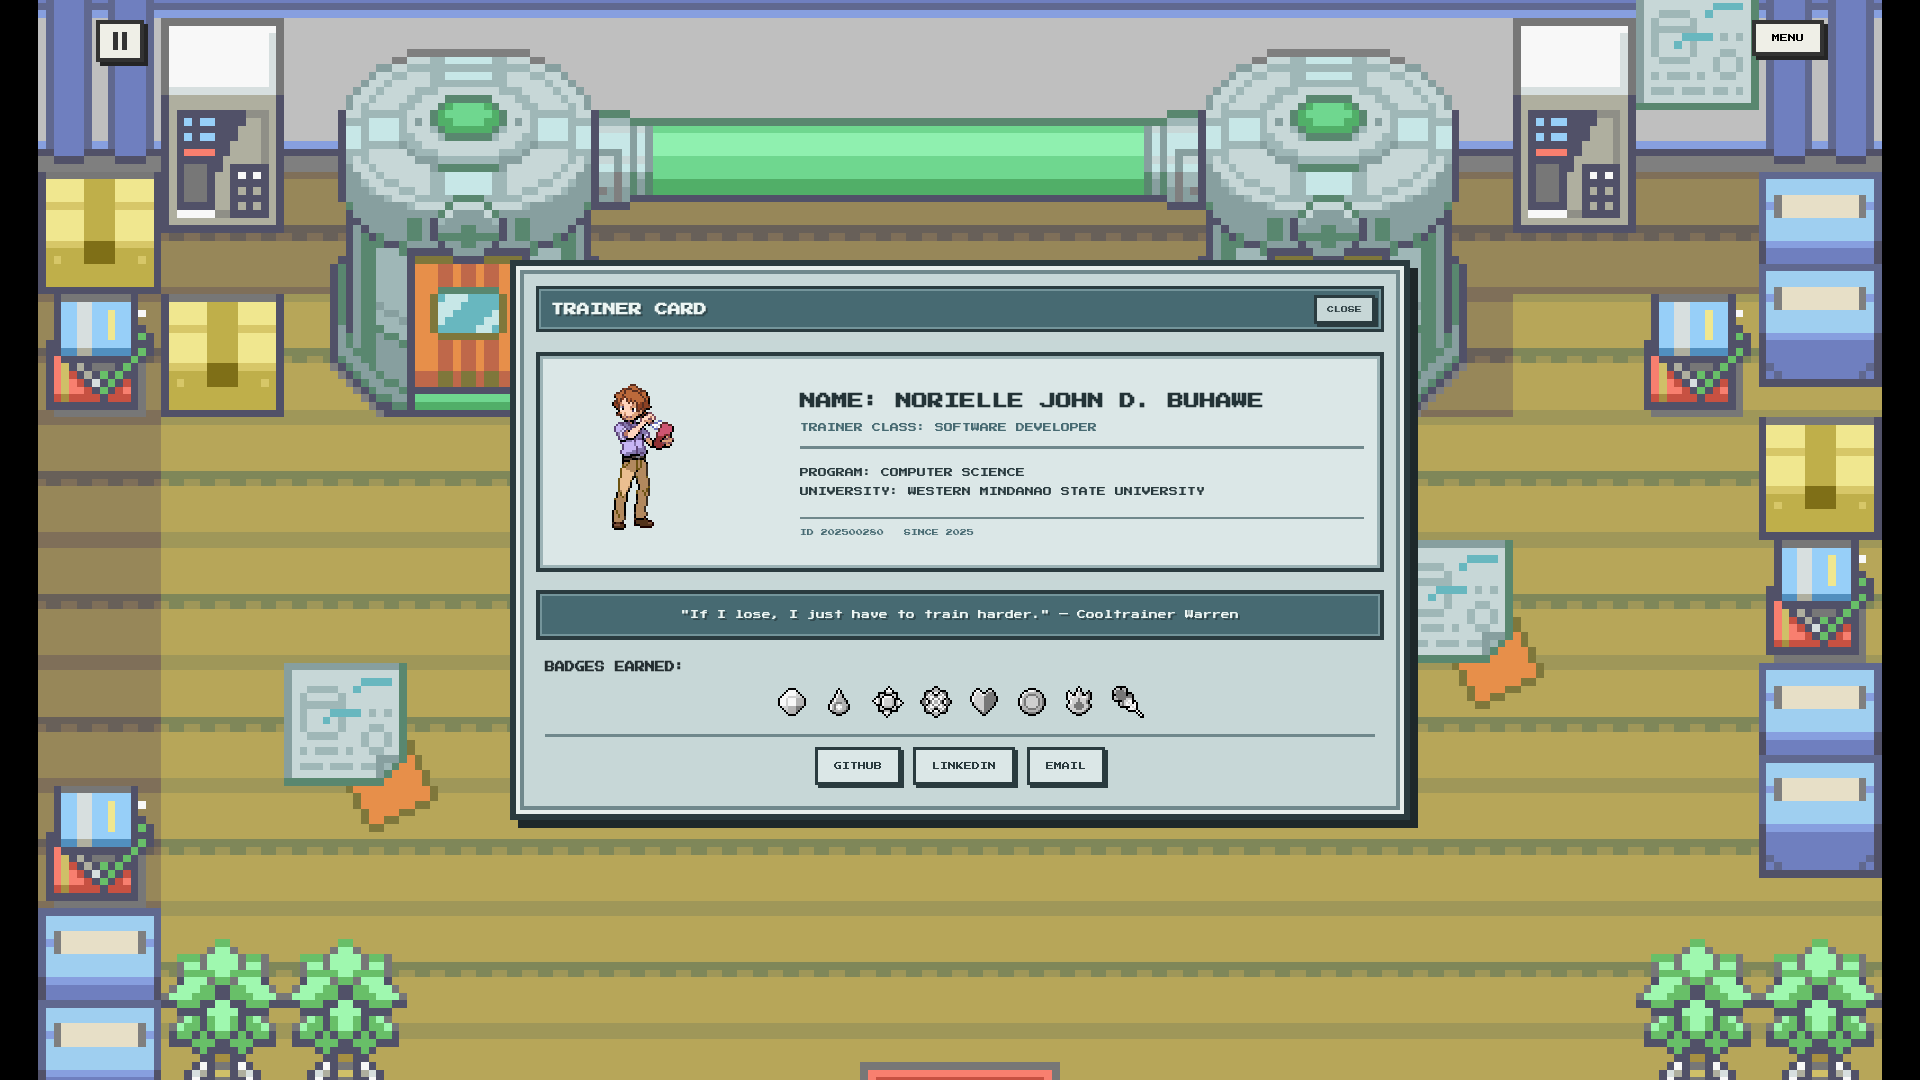
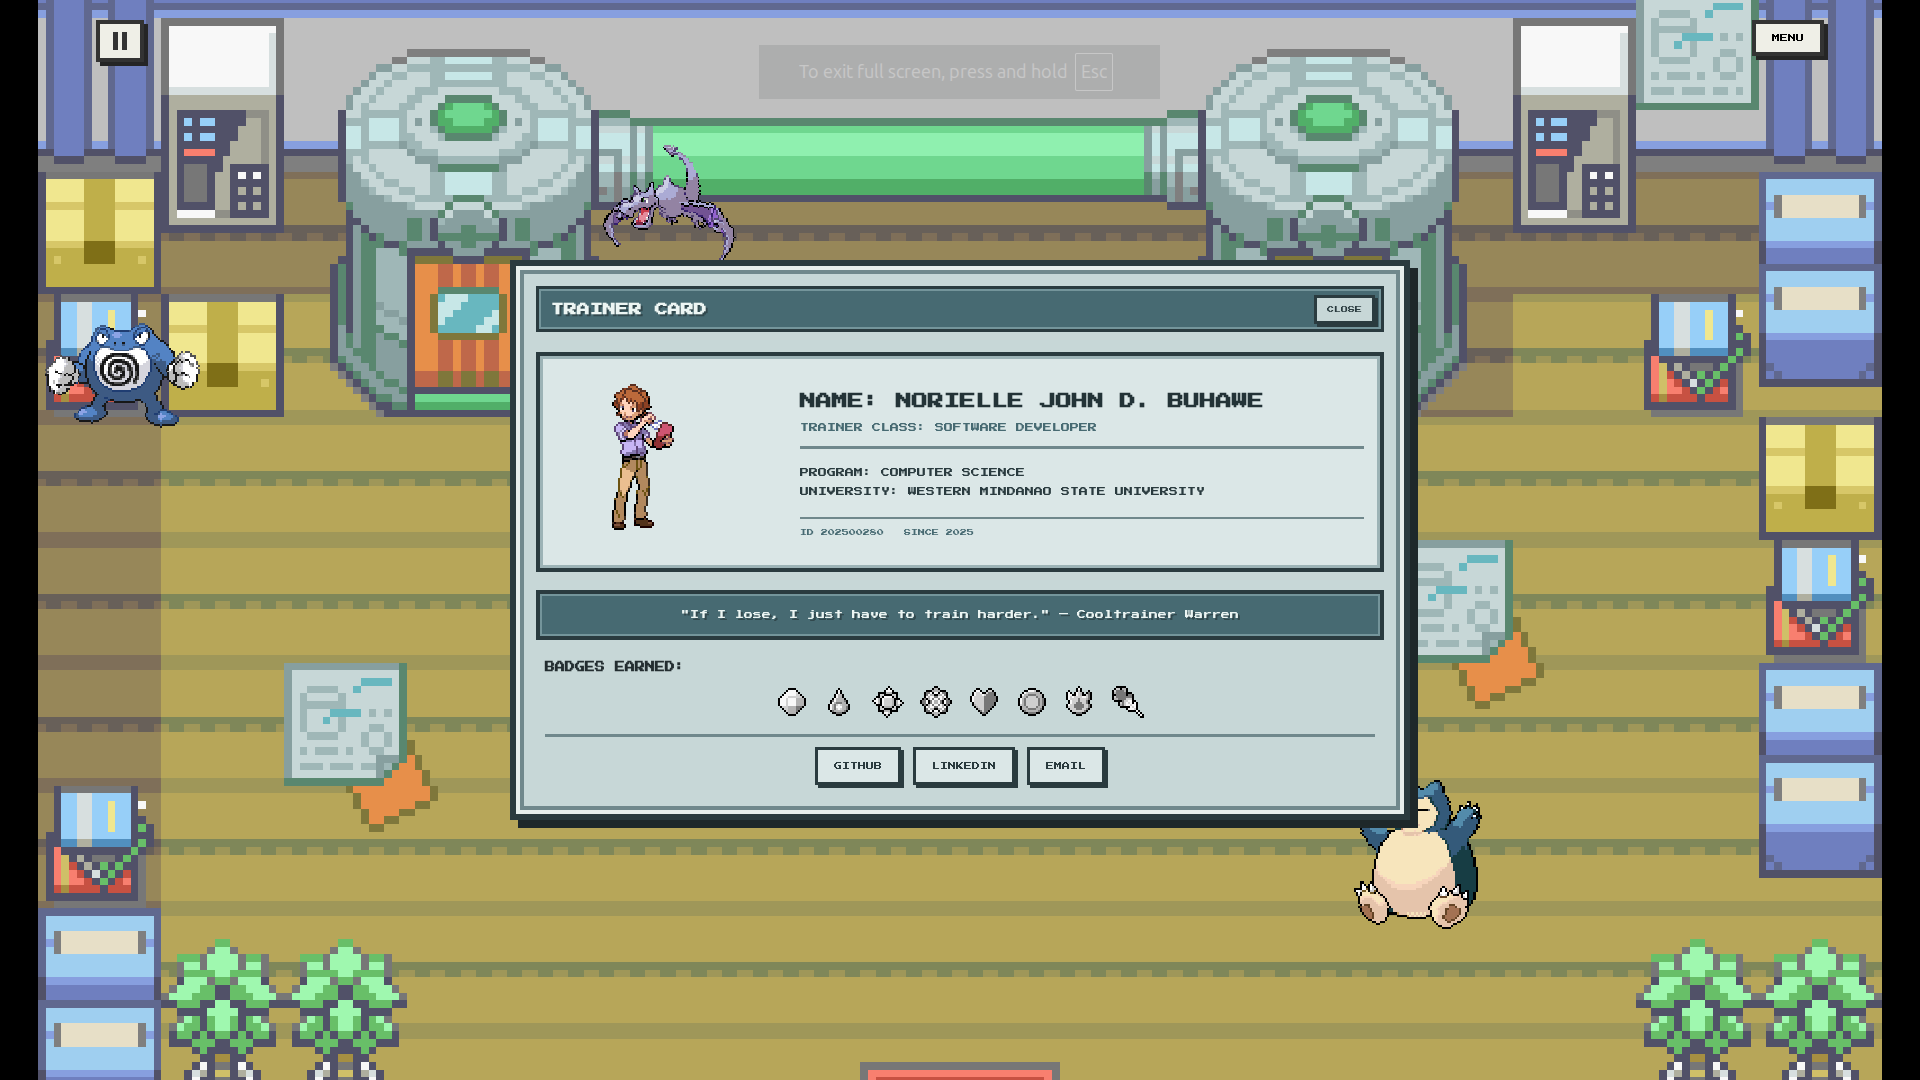
Updated README

diff --git a/README.md b/README.md
@@ -34,6 +34,11 @@ Pokémon party, and a Pokédex powered by the PokéAPI.
 
 <img src="/src/assets/screenshots/pokedex-mobile.png" width="220">
 
+### Battle
+
+<img src="/src/assets/screenshots/battle.png" width="600">
+
+
 ## Features
 
 -   Pokémon-inspired interactive overworld
